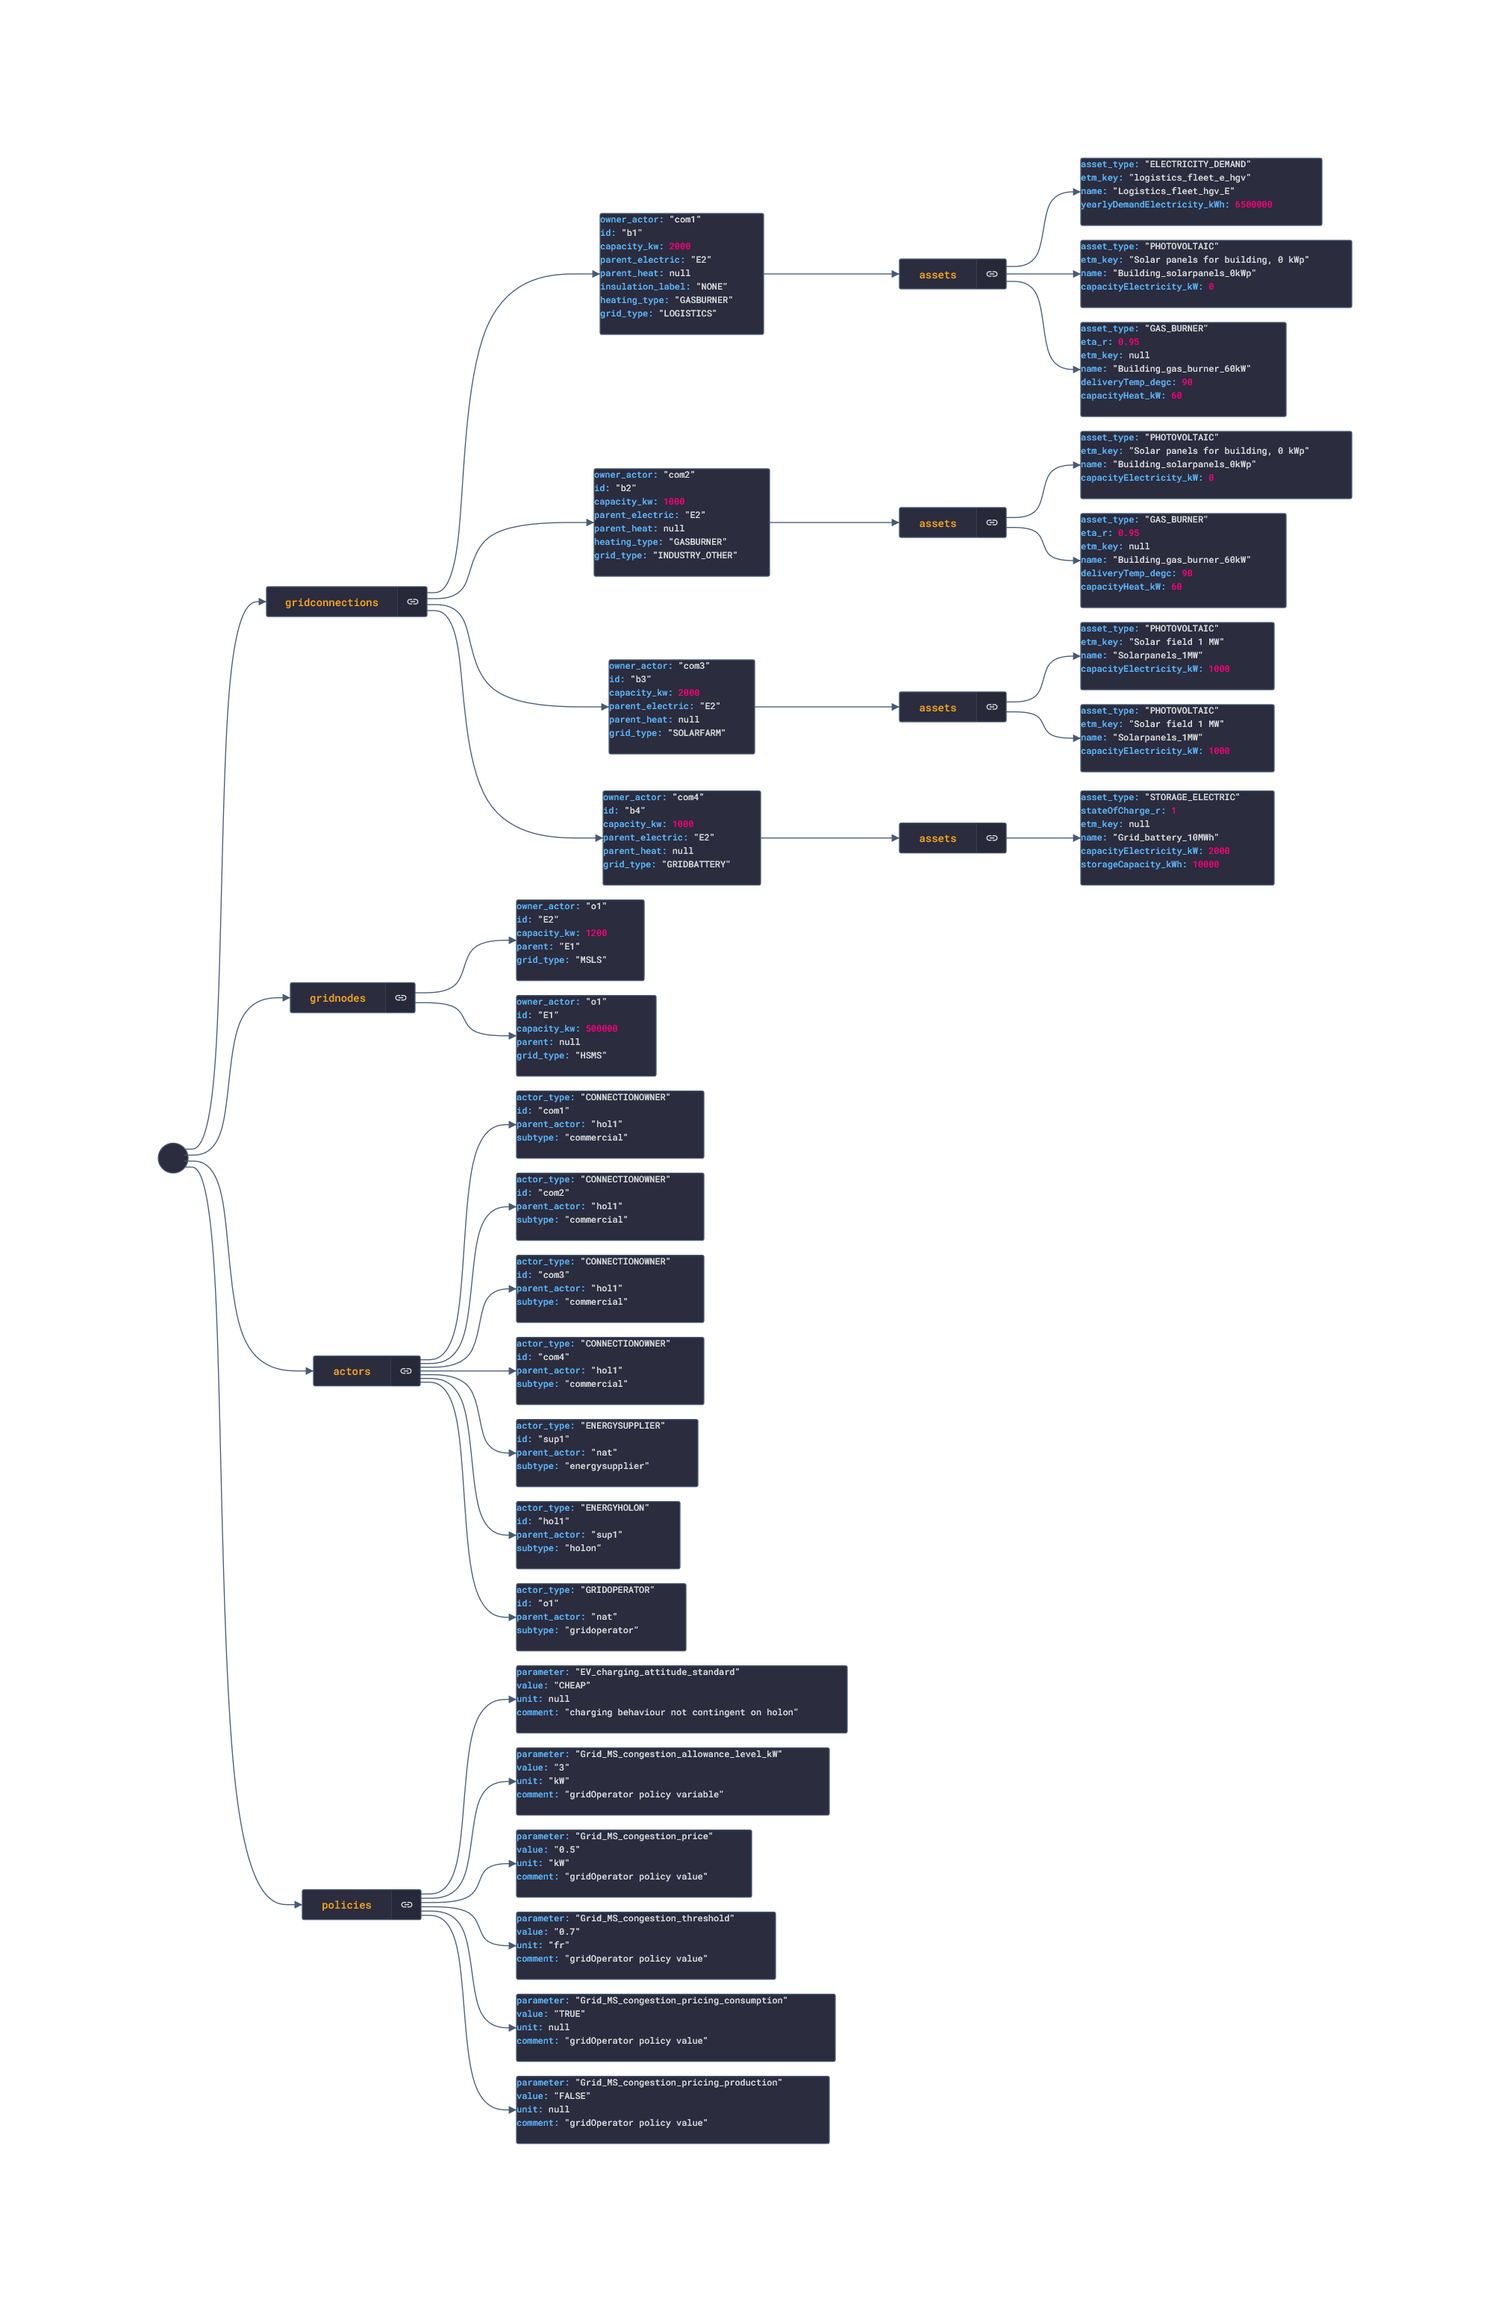
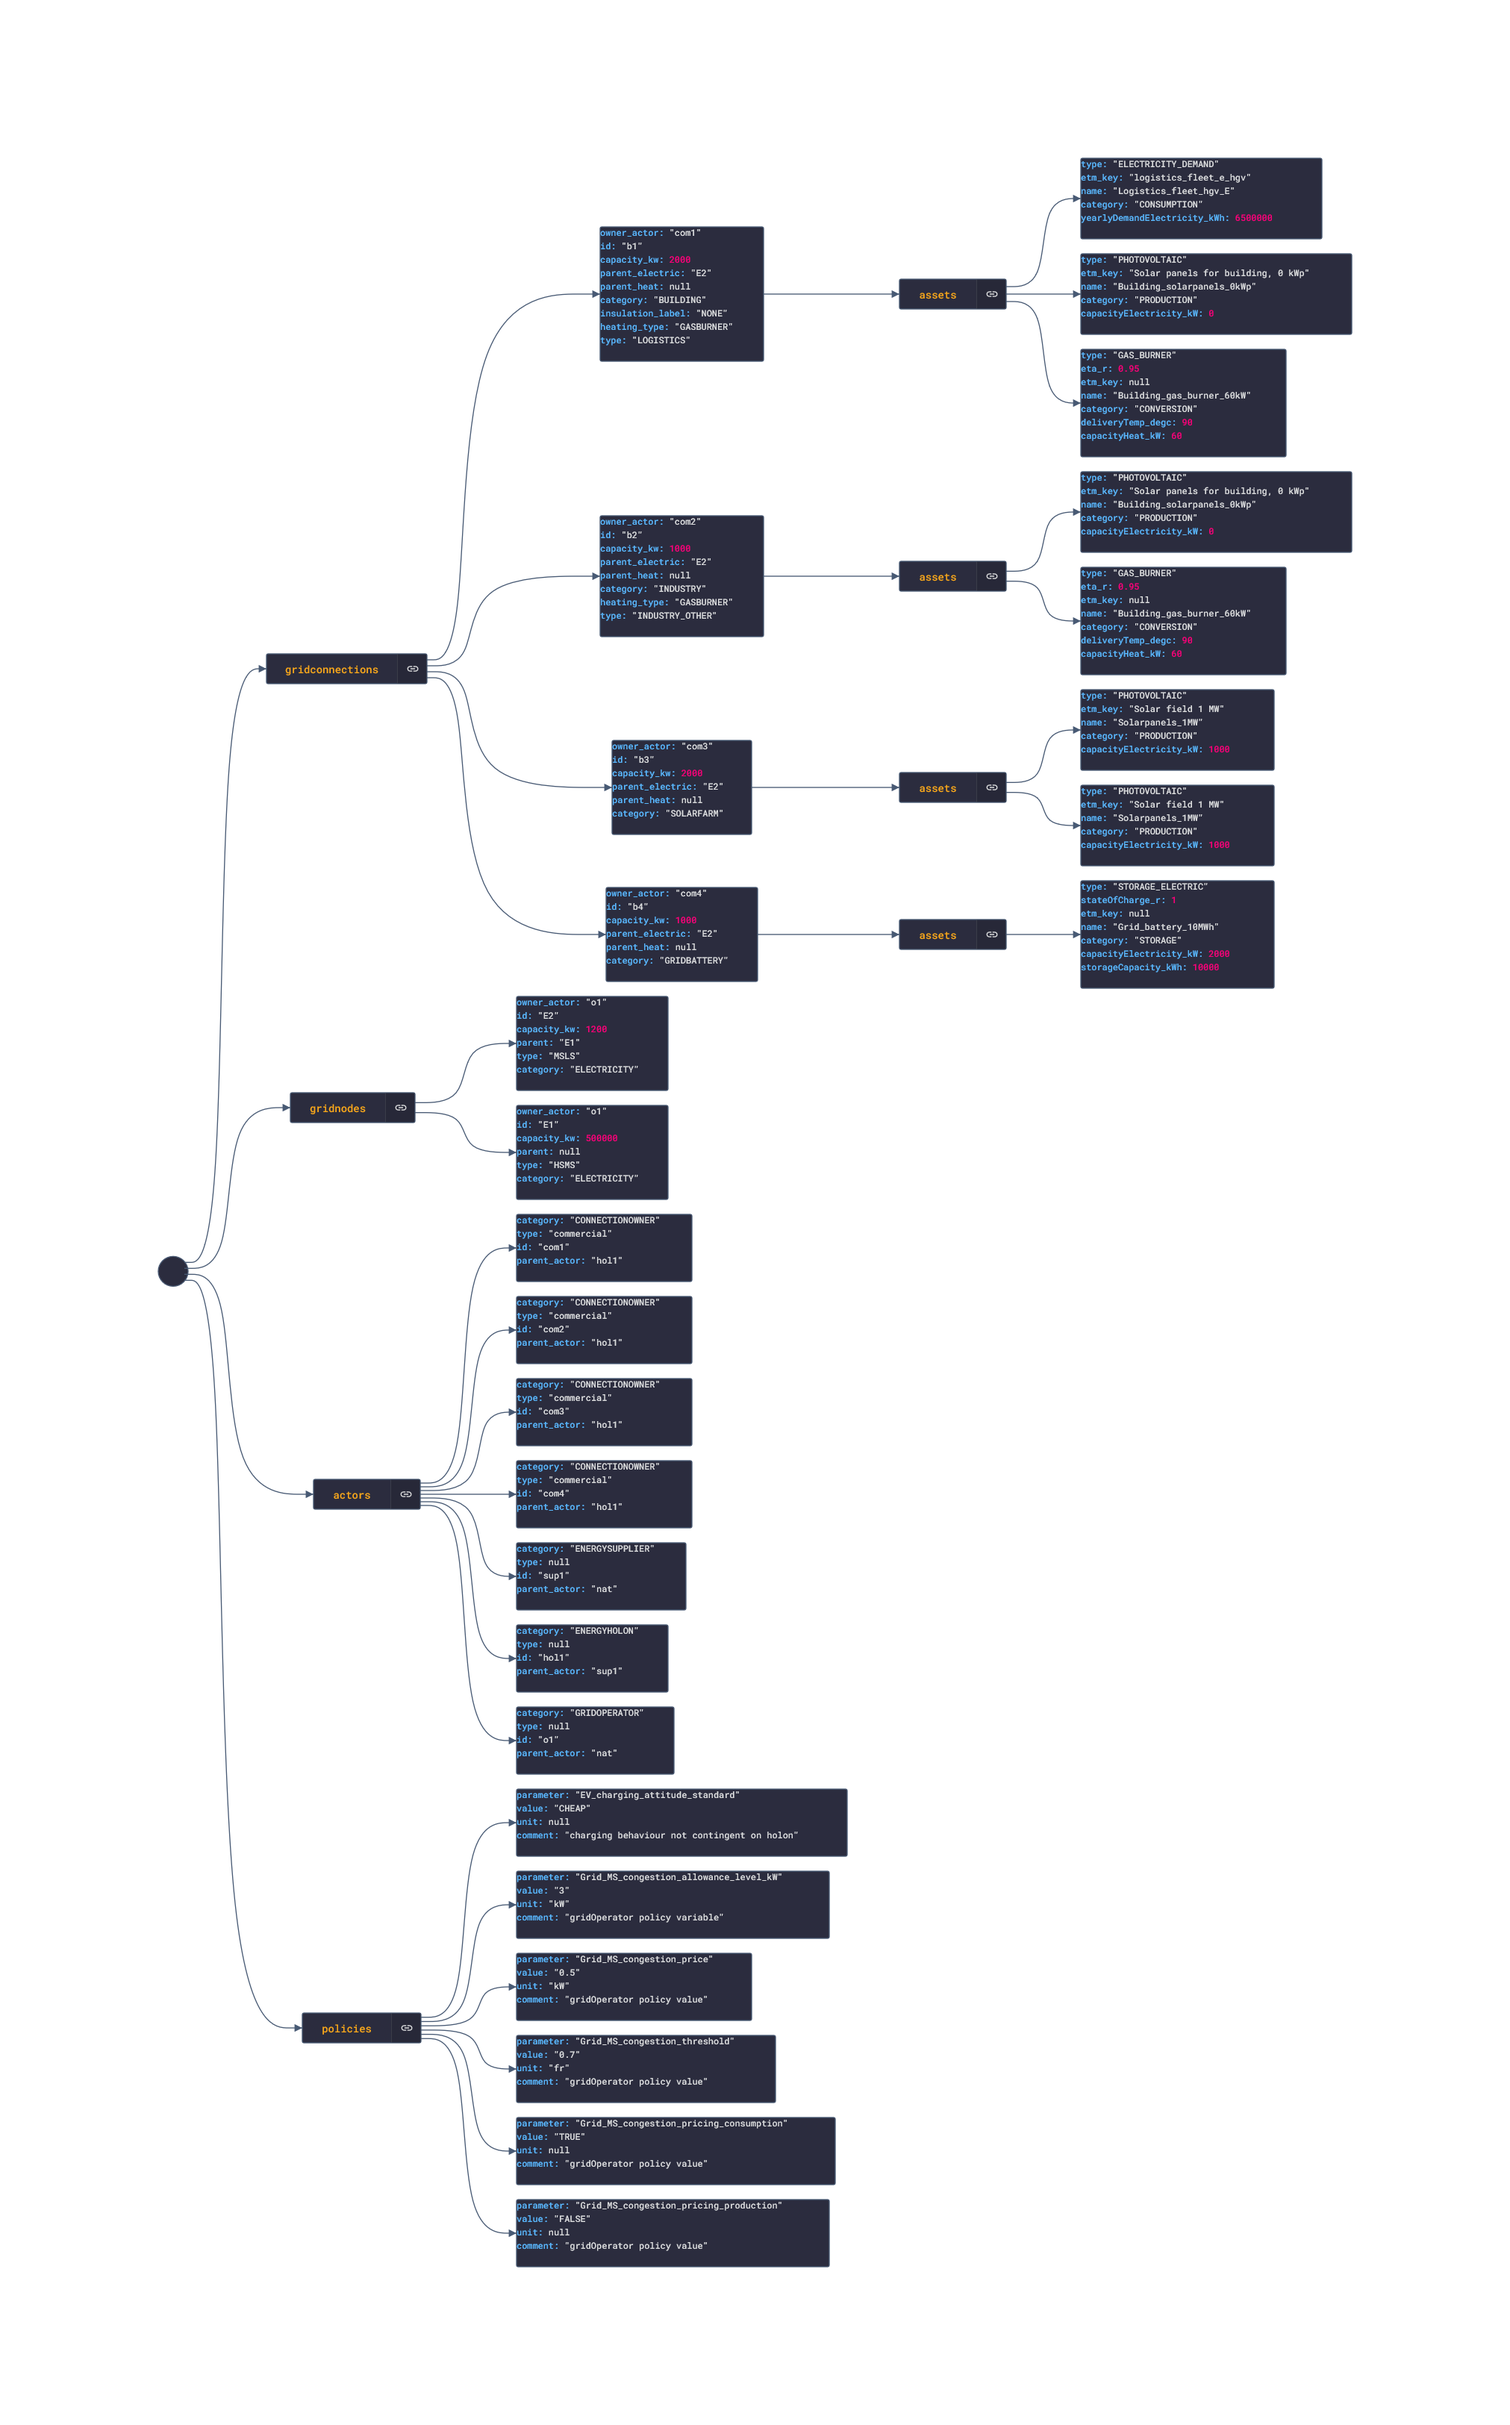
those that are lazy never do it twice

diff --git a/doc/html/gridconnections_classes.html b/doc/html/gridconnections_classes.html
@@ -1,0 +1,86 @@
+<html>
+  <body>
+    <script src="https://cdn.jsdelivr.net/npm/mermaid/dist/mermaid.min.js"></script>
+      <div class="mermaid">
+    
+        classDiagram
+          class BuildingGridConnection {
+            category : str
+            type
+          }
+          class BuildingTypeEnum {
+            name
+          }
+          class BuiltEnvironmentGridConnection {
+            category : str
+            heating_type
+            insulation_label
+          }
+          class DistrictHeatingGridConnection {
+            category : str
+            type
+          }
+          class DistrictHeatingTypeEnum {
+            name
+          }
+          class GridCategoryEnum {
+            name
+          }
+          class GridConnection {
+            assets : Optional[List[EnergyAsset]]
+            capacity_kw : float
+            category : str
+            id : str
+            owner_actor : str
+            parent_electric : str
+            parent_heat : Optional[str]
+          }
+          class HeatingTypeEnum {
+            name
+          }
+          class HouseGridConnection {
+            category : str
+            type
+          }
+          class HousingTypeEnum {
+            name
+          }
+          class IndustryGridConnection {
+            category : str
+            type
+          }
+          class IndustryTypeEnum {
+            name
+          }
+          class InsulationLabelEnum {
+            name
+          }
+          class ProductionCategoryEnum {
+            name
+          }
+          class ProductionGridConnection {
+            category
+          }
+          class UtilityGridConnection {
+            category : str
+            heating_type
+          }
+          BuildingGridConnection --|> BuiltEnvironmentGridConnection
+          BuiltEnvironmentGridConnection --|> GridConnection
+          DistrictHeatingGridConnection --|> UtilityGridConnection
+          HouseGridConnection --|> BuiltEnvironmentGridConnection
+          IndustryGridConnection --|> UtilityGridConnection
+          ProductionGridConnection --|> GridConnection
+          UtilityGridConnection --|> GridConnection
+          BuildingTypeEnum --* BuildingGridConnection : type
+          DistrictHeatingTypeEnum --* DistrictHeatingGridConnection : type
+          HeatingTypeEnum --* BuiltEnvironmentGridConnection : heating_type
+          HeatingTypeEnum --* UtilityGridConnection : heating_type
+          HousingTypeEnum --* HouseGridConnection : type
+          IndustryTypeEnum --* IndustryGridConnection : type
+          InsulationLabelEnum --* BuiltEnvironmentGridConnection : insulation_label
+          ProductionCategoryEnum --* ProductionGridConnection : category
+  
+       </div>
+  </body>
+</html>

diff --git a/doc/html/conversion_classes.html b/doc/html/conversion_classes.html
@@ -4,21 +4,18 @@
       <div class="mermaid">
     
         classDiagram
-          class AmbientTempTypeEnum {
-            name
-          }
           class ChemicalHeatConversionAsset {
             capacityHeat_kW : float
           }
           class ConversionAsset {
-            asset_type
+            category : str
             eta_r : float
+            etm_key : Optional[str]
+            name : str
+            type
           }
           class ConversionAssetTypeEnum {
             name
-          }
-          class DefaultEnergyAsset {
-            name : str
           }
           class ElectricCoversionAsset {
             capacityElectricity_kW : float
@@ -26,27 +23,22 @@
           class ElectricHeatConversionAsset {
             capacityElectricity_kW : float
           }
-          class EnergyAsset {
-          }
           class HeatConversionAsset {
             deliveryTemp_degc : float
           }
           class HybridHeatCoversionAsset {
           }
           class TransportHeatConversionAsset {
-            ambientTempType
+            ambientTempType : AmbientTempTypeEnum
           }
           ChemicalHeatConversionAsset --|> HeatConversionAsset
-          ConversionAsset --|> EnergyAsset
-          DefaultEnergyAsset --|> EnergyAsset
           ElectricCoversionAsset --|> ConversionAsset
           ElectricHeatConversionAsset --|> HeatConversionAsset
           HeatConversionAsset --|> ConversionAsset
           HybridHeatCoversionAsset --|> ChemicalHeatConversionAsset
           HybridHeatCoversionAsset --|> TransportHeatConversionAsset
           TransportHeatConversionAsset --|> ElectricHeatConversionAsset
-          AmbientTempTypeEnum --* TransportHeatConversionAsset : ambientTempType
-          ConversionAssetTypeEnum --* ConversionAsset : asset_type
+          ConversionAssetTypeEnum --* ConversionAsset : type
   
        </div>
   </body>

diff --git a/doc/html/storage_classes.html b/doc/html/storage_classes.html
@@ -9,7 +9,7 @@
             storageCapacity_kWh : float
           }
           class HeatStorageAsset {
-            ambientTempType
+            ambientTempType : AmbientTempTypeEnum
             capacityHeat_kW : float
             heatCapacity_JpK : float
             lossFactor_WpK : float
@@ -19,18 +19,22 @@
             stateOfCharge_r : float
           }
           class StorageAsset {
-            asset_type
+            category : str
+            etm_key : Optional[str]
+            name : str
             stateOfCharge_r : float
+            type
           }
           class StorageAssetTypeEnum {
             name
           }
           class VehicleElectricStorageAsset {
+            energy_consumption_kwhpkm : float
           }
           ElectricStorageAsset --|> StorageAsset
           HeatStorageAsset --|> StorageAsset
           VehicleElectricStorageAsset --|> ElectricStorageAsset
-          StorageAssetTypeEnum --* StorageAsset : asset_type
+          StorageAssetTypeEnum --* StorageAsset : type
   
        </div>
   </body>

diff --git a/doc/html/gridnodes_classes.html b/doc/html/gridnodes_classes.html
@@ -5,27 +5,32 @@
     
         classDiagram
           class ElectricGridNode {
-            grid_type
+            category : str
+            type
           }
           class ElectricGridTypeEnum {
+            name
+          }
+          class EnergyTypeEnum {
             name
           }
           class GridNode {
             capacity_kw : float
             id : str
             owner_actor : str
-            parent : str
+            parent : Optional[str]
           }
           class HeatGridNode {
-            grid_type
+            category : str
+            type
           }
           class HeatGridTypeEnum {
             name
           }
           ElectricGridNode --|> GridNode
           HeatGridNode --|> GridNode
-          ElectricGridTypeEnum --* ElectricGridNode : grid_type
-          HeatGridTypeEnum --* HeatGridNode : grid_type
+          ElectricGridTypeEnum --* ElectricGridNode : type
+          HeatGridTypeEnum --* HeatGridNode : type
   
        </div>
   </body>

diff --git a/doc/html/production_classes.html b/doc/html/production_classes.html
@@ -13,8 +13,10 @@
           class HybridProductionAsset {
           }
           class ProductionAsset {
-            alias : str
-            asset_type
+            category : str
+            etm_key : Optional[str]
+            name : str
+            type
           }
           class ProductionAssetTypeEnum {
             name
@@ -23,7 +25,7 @@
           HeatProductionAsset --|> ProductionAsset
           HybridProductionAsset --|> ElectricProductionAsset
           HybridProductionAsset --|> HeatProductionAsset
-          ProductionAssetTypeEnum --* ProductionAsset : asset_type
+          ProductionAssetTypeEnum --* ProductionAsset : type
   
        </div>
   </body>

diff --git a/doc/html/consumption_classes.html b/doc/html/consumption_classes.html
@@ -5,7 +5,10 @@
     
         classDiagram
           class ConsumptionAsset {
-            asset_type
+            category : str
+            etm_key : Optional[str]
+            name : str
+            type
           }
           class ConsumptionAssetTypeEnum {
             name
@@ -22,7 +25,7 @@
           HeatConsumptionAsset --|> ConsumptionAsset
           HybridConsumptionAsset --|> ElectricConsumptionAsset
           HybridConsumptionAsset --|> HeatConsumptionAsset
-          ConsumptionAssetTypeEnum --* ConsumptionAsset : asset_type
+          ConsumptionAssetTypeEnum --* ConsumptionAsset : type
   
        </div>
   </body>

diff --git a/doc/html/actors_classes.html b/doc/html/actors_classes.html
@@ -1,0 +1,23 @@
+<html>
+  <body>
+    <script src="https://cdn.jsdelivr.net/npm/mermaid/dist/mermaid.min.js"></script>
+      <div class="mermaid">
+    
+        classDiagram
+          class Actor {
+            category
+            id : str
+            parent_actor : str
+            type : Optional[SubTypeEnum]
+          }
+          class ActorTypeEnum {
+            name
+          }
+          class SubTypeEnum {
+            name
+          }
+          ActorTypeEnum --* Actor : category
+  
+       </div>
+  </body>
+</html>

diff --git a/update_classdiagrams.py b/update_classdiagrams.py
@@ -1,0 +1,28 @@
+from pathlib import Path
+import os
+from itertools import product
+import shutil
+
+TOPFOLDER = Path(__file__).parent
+DATAMODEL_TOPFOLDER = TOPFOLDER / "cloudclient" / "datamodel"
+DIAGRAM_FOLDER = TOPFOLDER / "doc" / "html"
+DATAMODEL_ASSETS = DATAMODEL_TOPFOLDER / "assets"
+
+topfolder = [
+    "actors.py",
+    "gridconnections.py",
+    "gridnodes.py",
+]
+assets = ["consumption.py", "conversion.py", "production.py", "storage.py"]
+
+do_these_please = [
+    *product([DATAMODEL_TOPFOLDER], topfolder),
+    *product([DATAMODEL_ASSETS], assets),
+]
+
+for base_path, file in do_these_please:
+    path = base_path / file
+    stem = path.stem
+    os.chdir(base_path)
+    os.system(f"pyreverse {file} -o html")
+    shutil.move(base_path / "classes.html", DIAGRAM_FOLDER / f"{stem}_classes.html")

diff --git a/README.md b/README.md
@@ -72,12 +72,12 @@ Happy experimenting!
 
 Data classes are used to structure and validate data before it is sent to the AnyLogic API. Find the class diagrams below:
 
-1. [Grid connections](doc\html\gridconnection_classes.html)
+1. [Grid connections](doc\html\gridconnections_classes.html)
 2. [Conversion assets](doc\html\conversion_classes.html)
 3. [Consumption assets](doc\html\consumption_classes.html)
 4. [Storage assets](doc\html\storage_classes.html)
 5. [Production assets](doc\html\production_classes.html)
-6. [Gridnode assets](doc\html\gridnode_classes.html)
+6. [Gridnode assets](doc\html\gridnodes_classes.html)
 
 ### Examples
 
